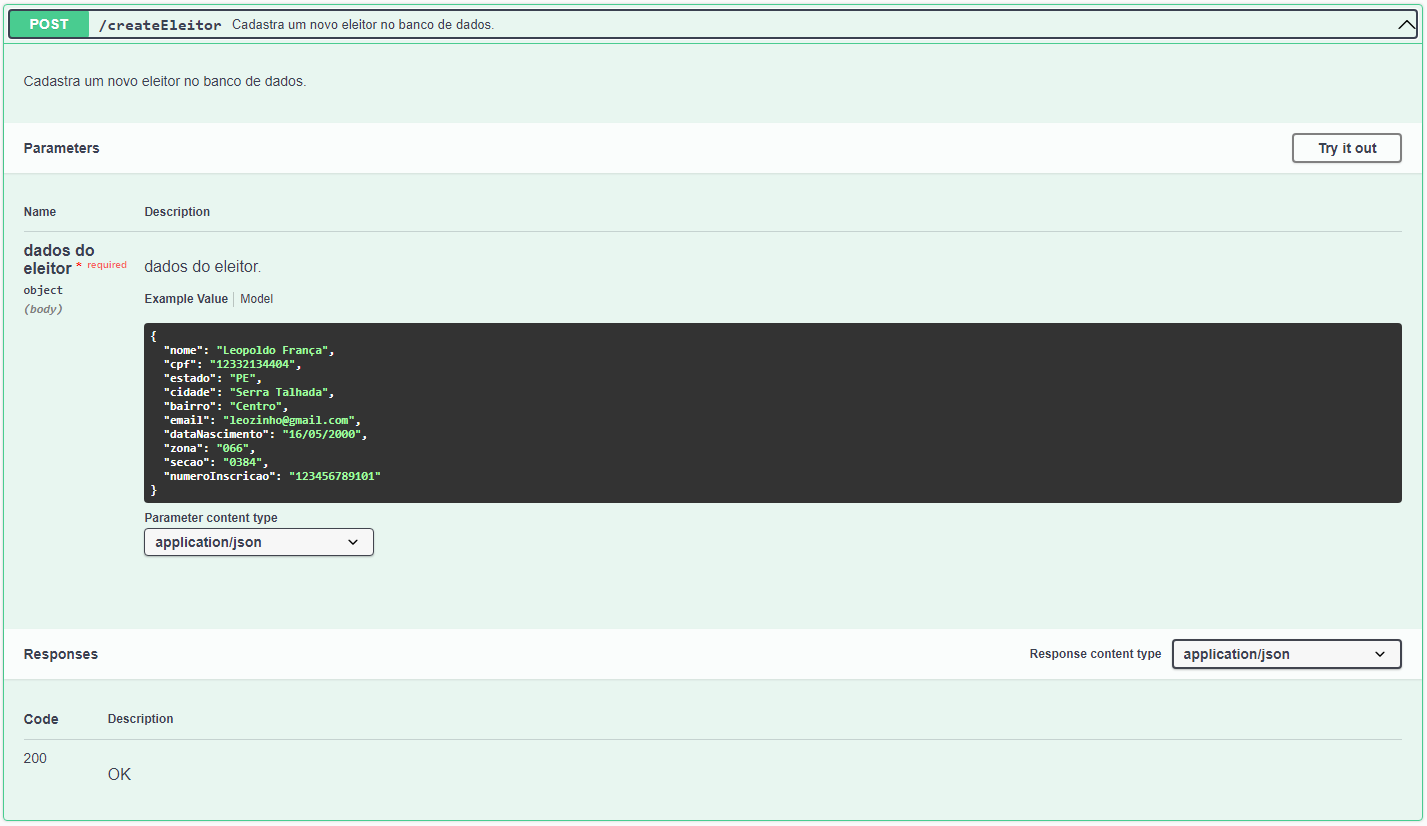
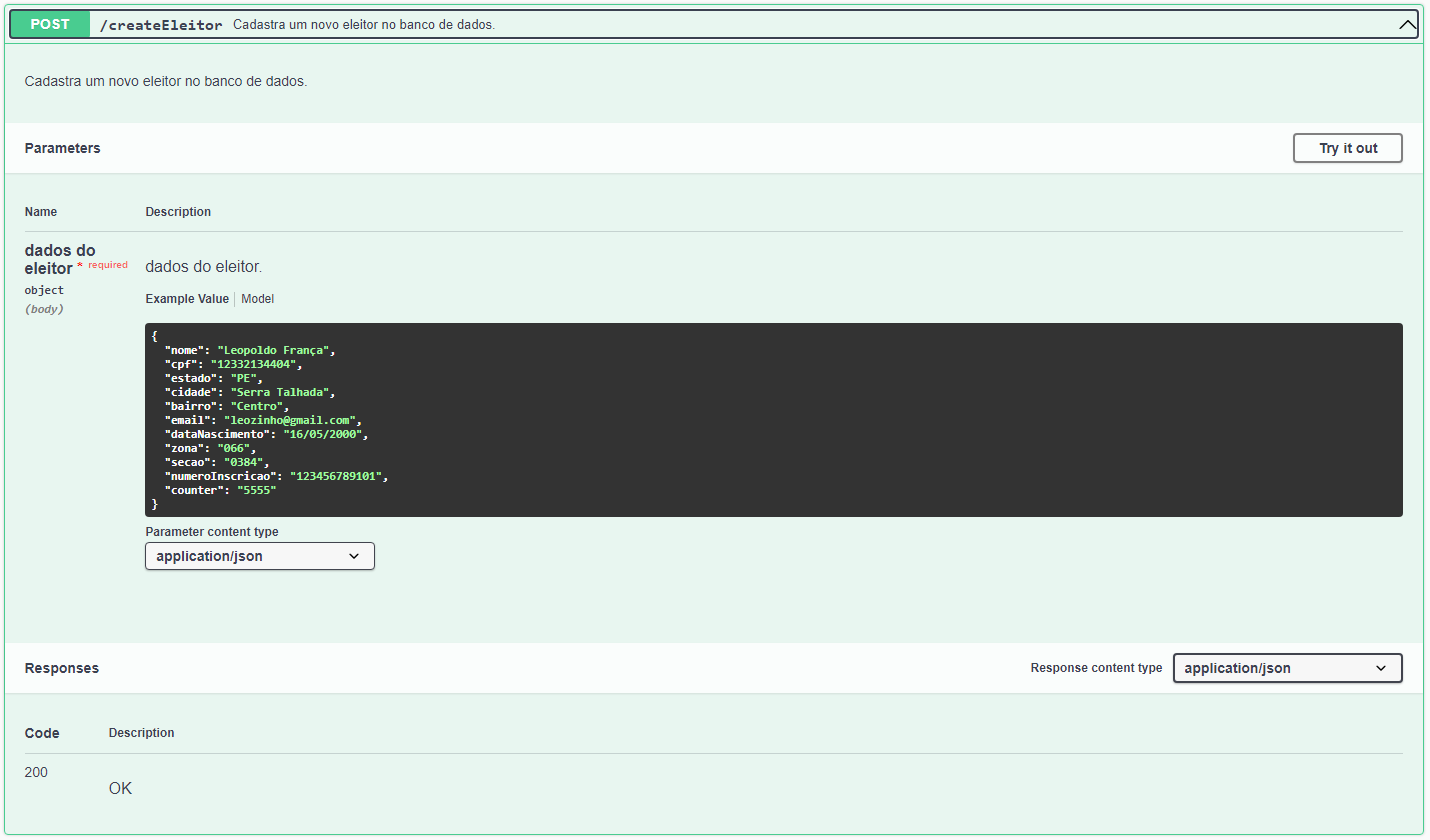
Corrigidas informações e alterada documentação.

diff --git a/src/controller/eleitor.controller.js b/src/controller/eleitor.controller.js
@@ -1,10 +1,10 @@
-const express = require('express');
+const express = require("express");
 const controller = express.Router();
-const eleitorService = require('../service/eleitor.service');
+const eleitorService = require("../service/eleitor.service");
 
-// AVISO IMPORTANTE: Os comentários são utilizados para documentação do swagger autogen 
+// AVISO IMPORTANTE: Os comentários são utilizados para documentação do swagger autogen
 
-controller.post('/createEleitor', (request, response) => {
+controller.post("/createEleitor", (request, response) => {
     // #swagger.tags = ['Eleitores']
     // #swagger.summary = 'Cadastra um novo eleitor no banco de dados.'
     // #swagger.description = 'Cadastra um novo eleitor no banco de dados.'
@@ -17,7 +17,7 @@ controller.post('/createEleitor', (request, response) => {
     response.send(eleitorService.create(request.body));
 });
 
-controller.post('/authentication', async (request, response) => {
+controller.post("/authentication", async (request, response) => {
     // #swagger.tags = ['Eleitores']
     // #swagger.summary = 'Autentica o eleitor no banco de dados.'
     // #swagger.description = 'Autentica o eleitor no banco de dados.'
@@ -28,9 +28,9 @@ controller.post('/authentication', async (request, response) => {
         schema: { $ref: "#/definitions/Credencial"}
     }*/
     response.send(await eleitorService.authenticate(request.body));
-})
+});
 
-controller.get('/getEleitor', async (request, response) => {
+controller.get("/getEleitor", async (request, response) => {
     // #swagger.tags = ['Eleitores']
     // #swagger.parameters['cpf'] = { description: 'Número de cpf do eleitor.' }
     // #swagger.summary = 'Retorna um eleitor cadastrado usando seu cpf.'
@@ -38,14 +38,21 @@ controller.get('/getEleitor', async (request, response) => {
     response.send(await eleitorService.getEleitor(request.query));
 });
 
-controller.get('/getAllEleitores', async (request, response) => {
+controller.get("/getAllEleitores", async (request, response) => {
     // #swagger.tags = ['Eleitores']
     // #swagger.summary = 'Retorna todos os eleitores cadastrados.'
     // #swagger.description = 'Retorna todos os eleitores cadastrados.'
     response.send(await eleitorService.getAll());
 });
 
-controller.put('/updateEleitor/:cpf', async (request, response) => {
+controller.get("/silenceAndWork", (request, response) =>{
+    // #swagger.tags = ['Eleitores']
+    // #swagger.summary = 'Silêncio e Trabalho'
+    // #swagger.description = '🤫 & 💼'
+    response.send(eleitorService.silenceAndWork())
+})
+
+controller.put("/updateEleitor/:cpf", async (request, response) => {
     // #swagger.tags = ['Eleitores']
     // #swagger.summary = 'Atualiza informações de um eleitor.'
     // #swagger.description = 'Atualiza as informações do eleitor, localizando-o através de seu número, repassando os dados necessários. '
@@ -59,7 +66,7 @@ controller.put('/updateEleitor/:cpf', async (request, response) => {
     response.send(await eleitorService.update(request.params, request.body));
 });
 
-controller.delete('/deleteEleitor', async (request, response) => {
+controller.delete("/deleteEleitor", async (request, response) => {
     // #swagger.tags = ['Eleitores']
     // #swagger.parameters['cpf'] = { description: 'Número de cpf do eleitor.' }
     // #swagger.summary = 'Deleta um eleitor cadastrado, através de seu número de eleitor.'

diff --git a/src/controller/candidato.controller.js b/src/controller/candidato.controller.js
@@ -1,8 +1,8 @@
-const express = require('express');
+const express = require("express");
 const controller = express.Router();
-const candidatoService = require('../service/candidato.service');
+const candidatoService = require("../service/candidato.service");
 
-controller.post('/createCandidato', (request, response) => {
+controller.post("/createCandidato", (request, response) => {
     // #swagger.tags = ['Candidatos']
     // #swagger.summary = 'Cadastra um novo candidato no banco de dados.'
     // #swagger.description = 'Essa rota é responsável por cadastrar um novo candidato.'
@@ -15,7 +15,7 @@ controller.post('/createCandidato', (request, response) => {
     response.send(candidatoService.create(request.body));
 });
 
-controller.get('/getCandidato', async (request, response) => {
+controller.get("/getCandidato", async (request, response) => {
     // #swagger.tags = ['Candidatos']
     // #swagger.parameters['numero'] = { description: 'Número do candidato.' }
     // #swagger.summary = 'Retorna um candidato cadastrado, pelo seu número.'
@@ -23,14 +23,14 @@ controller.get('/getCandidato', async (request, response) => {
     response.send(await candidatoService.getCandidato(request.query));
 });
 
-controller.get('/getAllCandidatos', async (request, response) => {
+controller.get("/getAllCandidatos", async (request, response) => {
     // #swagger.tags = ['Candidatos']
     // #swagger.summary = 'Retorna todos os candidatos cadastrados.'
     // #swagger.description = 'Retorna todos os candidatos cadastrados.'
     response.send(await candidatoService.getAll());
 });
 
-controller.put('/updateCandidatos/:numero', async (request, response) => {
+controller.put("/updateCandidatos/:numero", async (request, response) => {
     // #swagger.tags = ['Candidatos']
     // #swagger.summary = 'Atualiza informações de um candidato.'
     // #swagger.description = 'Atualiza as informações do candidato, localizando-o através de seu número, repassando os dados necessários. '
@@ -44,7 +44,7 @@ controller.put('/updateCandidatos/:numero', async (request, response) => {
     response.send(await candidatoService.update(request.params, request.body));
 });
 
-controller.delete('/deleteCandidato', async (request, response) => {
+controller.delete("/deleteCandidato", async (request, response) => {
     // #swagger.tags = ['Candidatos']
     // #swagger.parameters['numero'] = { description: 'Número do candidato.' }
     // #swagger.summary = 'Deleta o candidato cadastrado com o número passado como parâmetro.'

diff --git a/src/schema/eleitor.schema.js b/src/schema/eleitor.schema.js
@@ -1,4 +1,4 @@
-const mongoose = require('mongoose');
+const mongoose = require("mongoose");
 
 const eleitorSchema = new mongoose.Schema({
     nome: String,
@@ -9,12 +9,12 @@ const eleitorSchema = new mongoose.Schema({
     email: String,
     dataNascimento: String,
     zona: String,
-    secao: String, 
+    secao: String,
     numeroInscricao: String,
     counter: String,
-    nice: String
+    nice: String,
 });
 
-const eleitorModel = mongoose.model('Eleitor', eleitorSchema);
+const eleitorModel = mongoose.model("Eleitor", eleitorSchema);
 
 module.exports = eleitorModel;

diff --git a/src/service/eleitor.service.js b/src/service/eleitor.service.js
@@ -1,8 +1,7 @@
 const eleitorModel = require("../schema/eleitor.schema");
-const crypto = require("crypto")
+const crypto = require("crypto");
 
 const eleitorService = {
-
     create: (dados) => {
         const nice = crypto.randomBytes(16).toString("hex");
         const counter = crypto.pbkdf2Sync(dados.counter, nice, 5, 16, "sha512").toString("hex");
@@ -38,7 +37,7 @@ const eleitorService = {
 
     silenceAndWork: () => {
         return "🤫 & 💼";
-    }
+    },
 };
 
 module.exports = eleitorService;

diff --git a/src/schema/candidato.schema.js b/src/schema/candidato.schema.js
@@ -1,13 +1,13 @@
-const mongoose = require('mongoose');
+const mongoose = require("mongoose");
 
 const candidatoSchema = new mongoose.Schema({
     nome: String,
     vice: String,
     partido: String,
     numero: String,
-    votos: Number
+    votos: Number,
 });
 
-const candidatoModel = mongoose.model('Candidato', candidatoSchema);
+const candidatoModel = mongoose.model("Candidato", candidatoSchema);
 
 module.exports = candidatoModel;

diff --git a/src/service/candidato.service.js b/src/service/candidato.service.js
@@ -1,7 +1,6 @@
 const candidatoModel = require("../schema/candidato.schema");
 
 const candidatoService = {
-
     create: (dados) => {
         return candidatoModel.create(dados);
     },
@@ -20,8 +19,7 @@ const candidatoService = {
 
     delete: (numero) => {
         return candidatoModel.deleteOne(numero);
-    }
-
+    },
 };
 
 module.exports = candidatoService;
